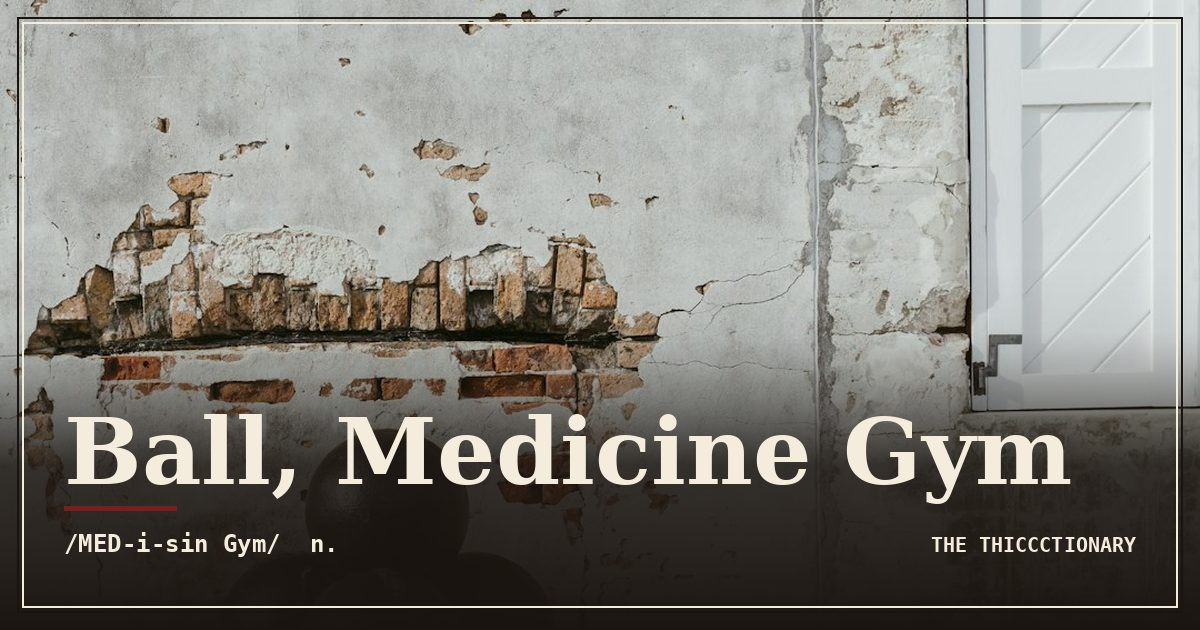
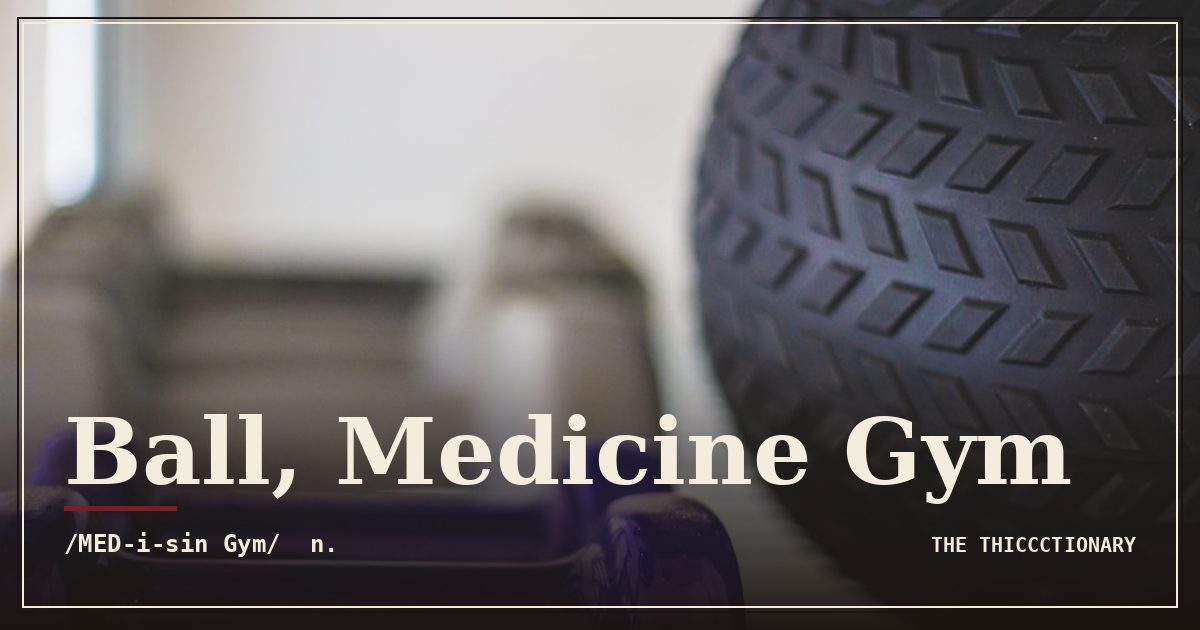
Regenerate images for older entries (tuned prompt)

diff --git a/entries/2026-07-06.html b/entries/2026-07-06.html
@@ -80,7 +80,7 @@
       "headline": "Ball, Medicine Gym, Thiccctionary",
       "name": "Ball, Medicine Gym",
       "description": "Medicine Gym Ball: A spherical instrument of significant density and heft, commonly employed in exercise routines to enhance muscular endurance and…",
-      "image": "https://thiccctionary.com/images/2026-07-06-ball-medicine-gym.jpg",
+      "image": "https://thiccctionary.com/images/2026-07-06-ball-medicine-gym-rlbk.jpg",
       "datePublished": "2026-07-06",
       "dateModified": "2026-07-06",
       "inLanguage": "en-US",
@@ -181,12 +181,12 @@
       <div class="entry-image-wrap">
         <div class="entry-image">
           <picture>
-            <source srcset="../images/2026-07-06-ball-medicine-gym.webp" type="image/webp" />
-            <img src="../images/2026-07-06-ball-medicine-gym.jpg" alt="An assemblage of thiccc gym medicine balls at rest, esp. when viewed with reverence." width="600" height="600" loading="eager" decoding="async" data-pin-do="buttonHover" data-pin-url="https://thiccctionary.com/entries/2026-07-06.html" data-pin-media="https://thiccctionary.com/images/og/2026-07-06.jpg" data-pin-description="Ball, Medicine Gym, a Thiccctionary entry. A spherical instrument of significant density and heft, commonly employed in exercise routines to enhance muscular endurance and coordination. Typically observed in a state of restful contemplation…" />
+            <source srcset="../images/2026-07-06-ball-medicine-gym-rlbk.webp" type="image/webp" />
+            <img src="../images/2026-07-06-ball-medicine-gym-rlbk.jpg" alt="An assemblage of thiccc gym medicine balls at rest, esp. when viewed with reverence." width="600" height="600" loading="eager" decoding="async" data-pin-do="buttonHover" data-pin-url="https://thiccctionary.com/entries/2026-07-06.html" data-pin-media="https://thiccctionary.com/images/og/2026-07-06.jpg" data-pin-description="Ball, Medicine Gym, a Thiccctionary entry. A spherical instrument of significant density and heft, commonly employed in exercise routines to enhance muscular endurance and coordination. Typically observed in a state of restful contemplation…" />
           </picture>
         </div>
         <p class="entry-caption">Plate LXXXVII., An assemblage of thiccc gym medicine balls at rest, esp. when viewed with reverence.</p>
-        <p class="entry-credit">Photo by <a href="https://unsplash.com/@meric?utm_source=thiccctionary&amp;utm_medium=referral" target="_blank" rel="noopener">Meriç Dağlı</a> on <a href="https://unsplash.com/?utm_source=thiccctionary&utm_medium=referral" target="_blank" rel="noopener">Unsplash</a></p>
+        <p class="entry-credit">Photo by <a href="https://unsplash.com/@delaneyvan?utm_source=thiccctionary&amp;utm_medium=referral" target="_blank" rel="noopener">Delaney Van</a> on <a href="https://unsplash.com/?utm_source=thiccctionary&utm_medium=referral" target="_blank" rel="noopener">Unsplash</a></p>
       </div>
 
       <div class="entry-text">
@@ -254,7 +254,7 @@
     <section class="entry-sources" aria-label="Sources and editorial notes" style="margin: 56px 0 0; padding: 28px 24px; border-top: 1px solid var(--rule); font-size: 14px; line-height: 1.6;">
     <h3 style="font-family: var(--font-mono); font-size: 11px; letter-spacing: 0.2em; text-transform: uppercase; color: var(--oxblood); margin: 0 0 1rem; font-weight: 600;">Sources</h3>
     <ol style="margin: 0; padding-left: 1.5rem; color: var(--ink-soft);">
-      <li style="margin-bottom: 0.5rem;">Photograph by <a href="https://unsplash.com/@meric" target="_blank" rel="noopener">Meriç Dağlı</a>, via <a href="https://unsplash.com/photos/pile-of-round-black-balls-TthLw9wNyQE" target="_blank" rel="noopener">Unsplash</a>. Catalogued under plate LXXXVII.</li>
+      <li style="margin-bottom: 0.5rem;">Photograph by <a href="https://unsplash.com/@delaneyvan" target="_blank" rel="noopener">Delaney Van</a>, via <a href="https://unsplash.com/photos/purple-glass-bottle-on-brown-wooden-table-UkP3YJW74Ew" target="_blank" rel="noopener">Unsplash</a>. Catalogued under plate LXXXVII.</li>
       <li style="margin-bottom: 0.5rem;">Direct ruling URL: <a href="../is/ball-thiccc/">thiccctionary.com/is/ball-thiccc/</a> &mdash; the shareable "Is a ball thiccc?" page.</li>
       <li style="margin-bottom: 0.5rem;">Cross-reference: <a href="../a-z.html#B">Thiccctionary A-Z, B</a>.</li>
       <li style="margin-bottom: 0.5rem;">Catalogued under: <a href="../category/industrial-machinery/">Industrial Machinery</a>. See related entries below.</li>

diff --git a/is/ball-thiccc/index.html b/is/ball-thiccc/index.html
@@ -43,7 +43,7 @@
       "url": "https://thiccctionary.com/is/ball-thiccc/",
       "headline": "Is a Ball thiccc?",
       "description": "Yes, a ball is officially thiccc per the Thiccctionary. A spherical instrument of significant density and heft, commonly employed in exercise routines to…",
-      "image": "https://thiccctionary.com/images/2026-07-06-ball-medicine-gym.jpg",
+      "image": "https://thiccctionary.com/images/2026-07-06-ball-medicine-gym-rlbk.jpg",
       "datePublished": "2026-07-06",
       "author": {
         "@type": "Organization",
@@ -167,8 +167,8 @@
       <div class="entry-image-wrap">
         <div class="entry-image">
           <picture>
-            <source srcset="/images/2026-07-06-ball-medicine-gym.webp" type="image/webp" />
-            <img src="/images/2026-07-06-ball-medicine-gym.jpg" alt="Ball, a thiccc subject" width="600" height="600" loading="eager" decoding="async" />
+            <source srcset="/images/2026-07-06-ball-medicine-gym-rlbk.webp" type="image/webp" />
+            <img src="/images/2026-07-06-ball-medicine-gym-rlbk.jpg" alt="Ball, a thiccc subject" width="600" height="600" loading="eager" decoding="async" />
           </picture>
         </div>
         <p class="entry-caption">Plate LXXXVII., An assemblage of thiccc gym medicine balls at rest, esp. when viewed with reverence.</p>

diff --git a/category/industrial-machinery/index.html b/category/industrial-machinery/index.html
@@ -278,7 +278,7 @@
   </li>
   <li class="cat-card">
     <a href="/entries/2026-07-06.html">
-      <img src="/images/2026-07-06-ball-medicine-gym.jpg" alt="An assemblage of thiccc gym medicine balls at rest, esp. when viewed with reverence." loading="lazy" width="800" height="600" />
+      <img src="/images/2026-07-06-ball-medicine-gym-rlbk.jpg" alt="An assemblage of thiccc gym medicine balls at rest, esp. when viewed with reverence." loading="lazy" width="800" height="600" />
       <div class="cat-card-body">
         <p class="cat-card-word">Ball, Medicine Gym</p>
         <p class="cat-card-def">A spherical instrument of significant density and heft, commonly employed in exercise routines to enhance muscular endurance and coordination.</p>
